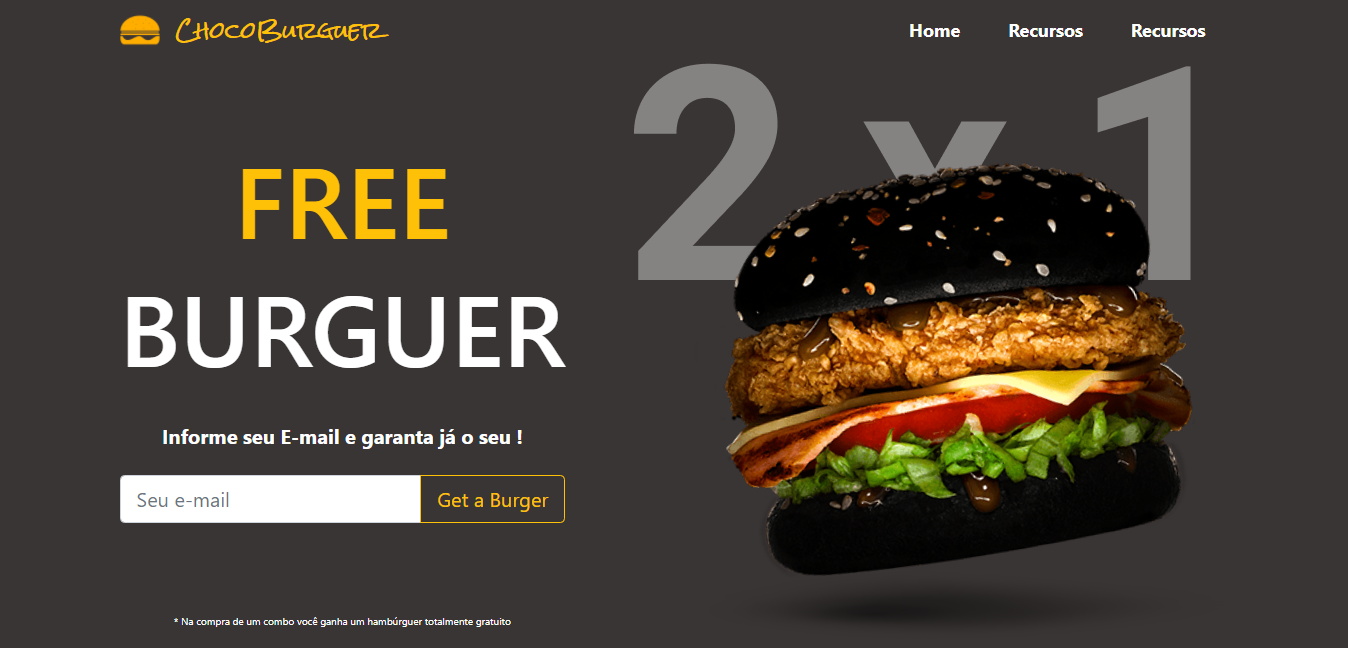
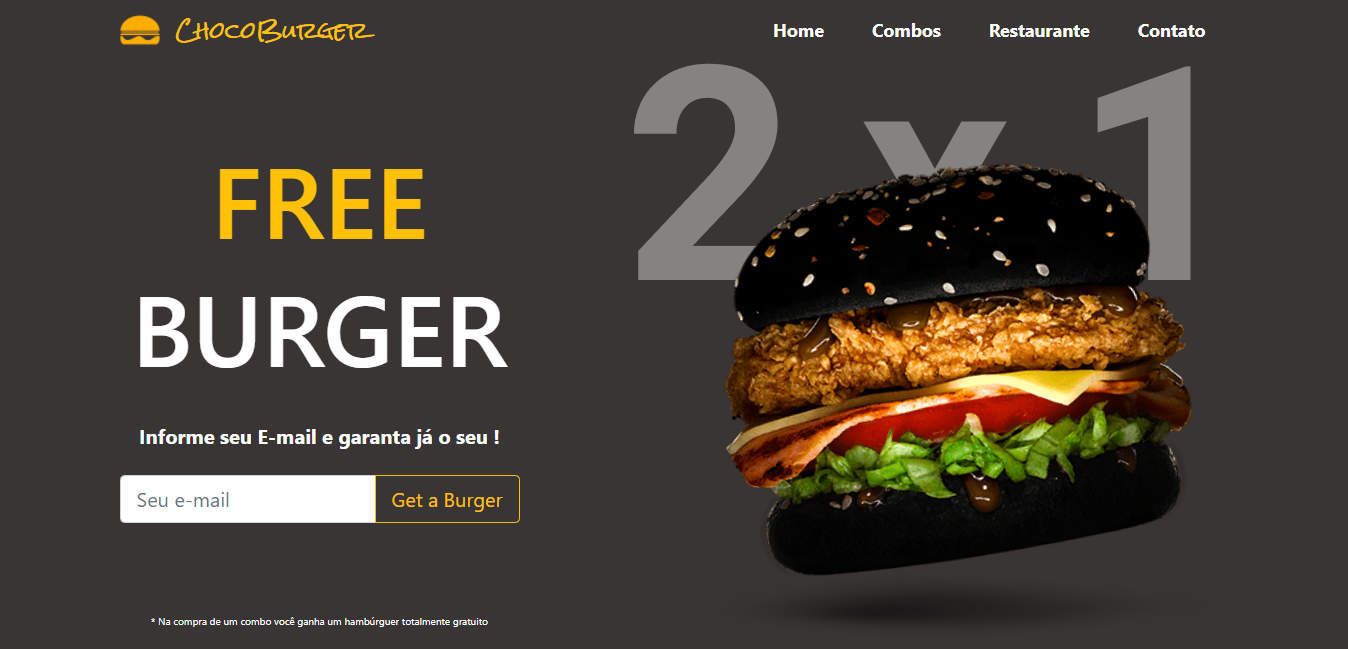
mudando img do readme e header

diff --git a/index.html b/index.html
@@ -30,7 +30,7 @@
 
                         </a>
 
-                        <span class="text-nav text-warning ">ChocoBurguer</span>
+                        <span class="text-nav text-warning ">ChocoBurger</span>
                     </div>
 
 
@@ -44,12 +44,14 @@
                                 <a href="" class="nav-link text-white mx-3">Home </a>
                             </li>
                             <li class="nav-item">
-                                <a href="" class="nav-link text-white mx-3"> Recursos </a>
+                                <a href="" class="nav-link text-white mx-3"> Combos </a>
                             </li>
                             <li class="nav-item">
-                                <a href="" class="nav-link text-white mx-3"> Recursos</a>
+                                <a href="" class="nav-link text-white mx-3"> Restaurante </a>
                             </li>
-
+                            <li class="nav-item">
+                                <a href="" class="nav-link text-white mx-3"> Contato </a>
+                            </li>
 
                         </ul>
                     </div>
@@ -66,7 +68,7 @@
                     <div class="col-md-5 d-flex">
                         <div class="align-self-center text-center">
                             <h1 class="text-free text-warning">FREE</h1>
-                            <h1 class="text-burguer text-white">BURGUER</h1>
+                            <h1 class="text-burguer text-white">BURGER</h1>
 
                             <p class="info-email">Informe seu E-mail e garanta já o seu !</p>
 

diff --git a/readme.md b/readme.md
@@ -1,4 +1,4 @@
-<h1>Desafio #1: Ecommerce 💻📚</h1>
+<h1>Desafio #1: Ecommerce 💻</h1>
 
 
 <img src="img/img1-index.PNG">
@@ -6,7 +6,7 @@
 
 ## Sobre
 
-> Este projeto foi desenvolvido concluir o desafio do **Hiring Coders**, para criar uma landing page de um e-commerce.
+> Este projeto foi desenvolvido para concluir o desafio do **Hiring Coders**, com o objetivo de criar uma landing page de um e-commerce.
 
 ### Projeto em andamento 🚀👩💻
 
